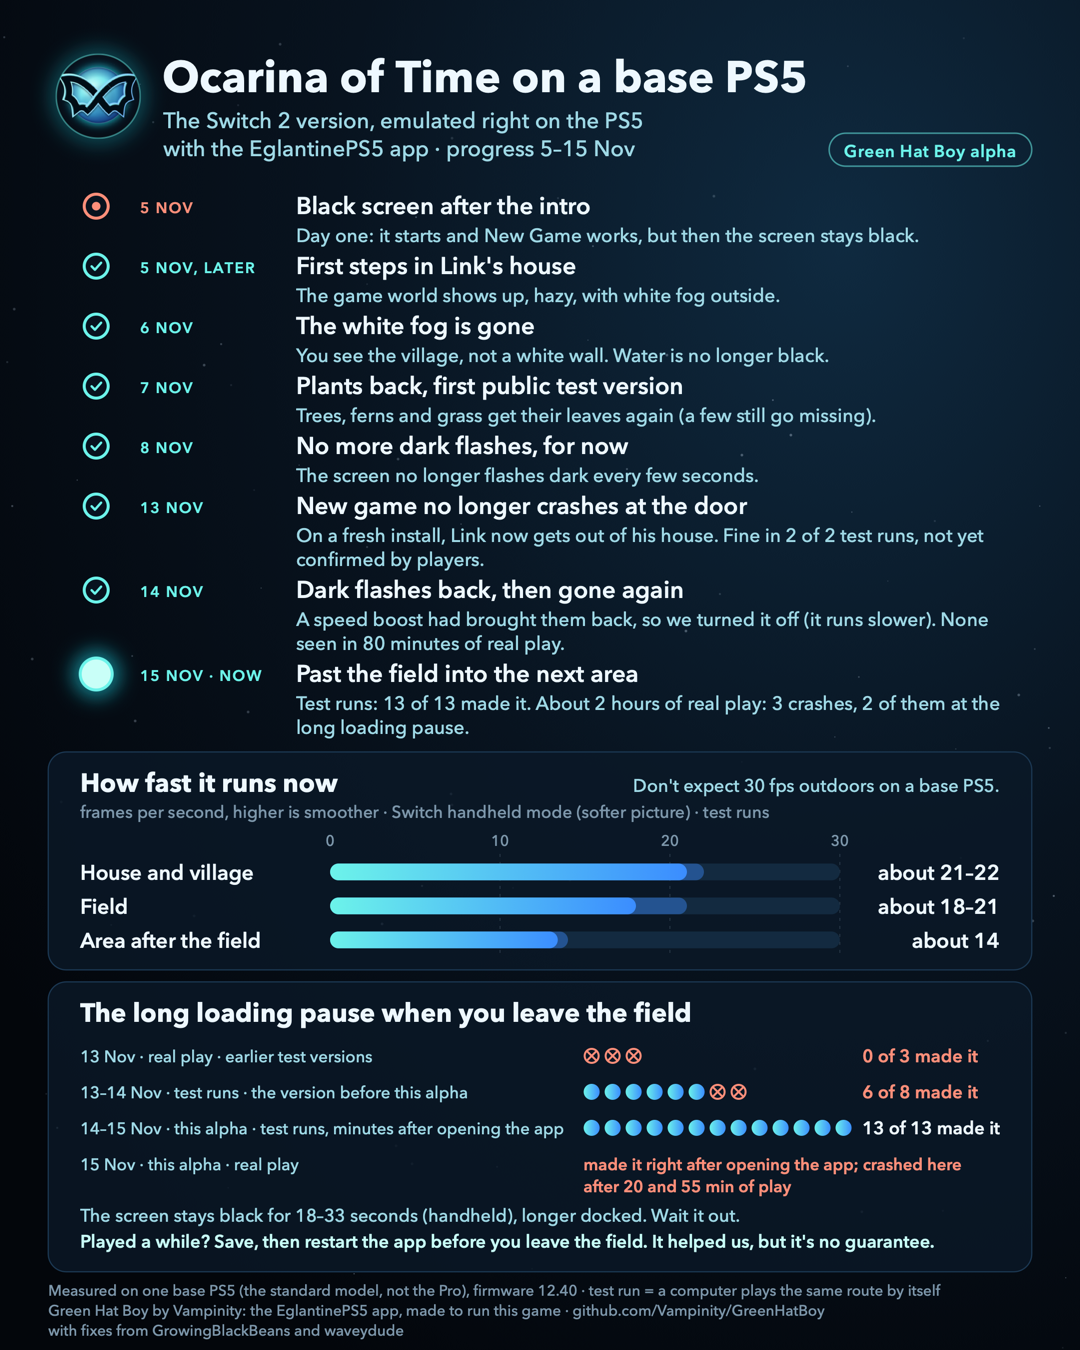
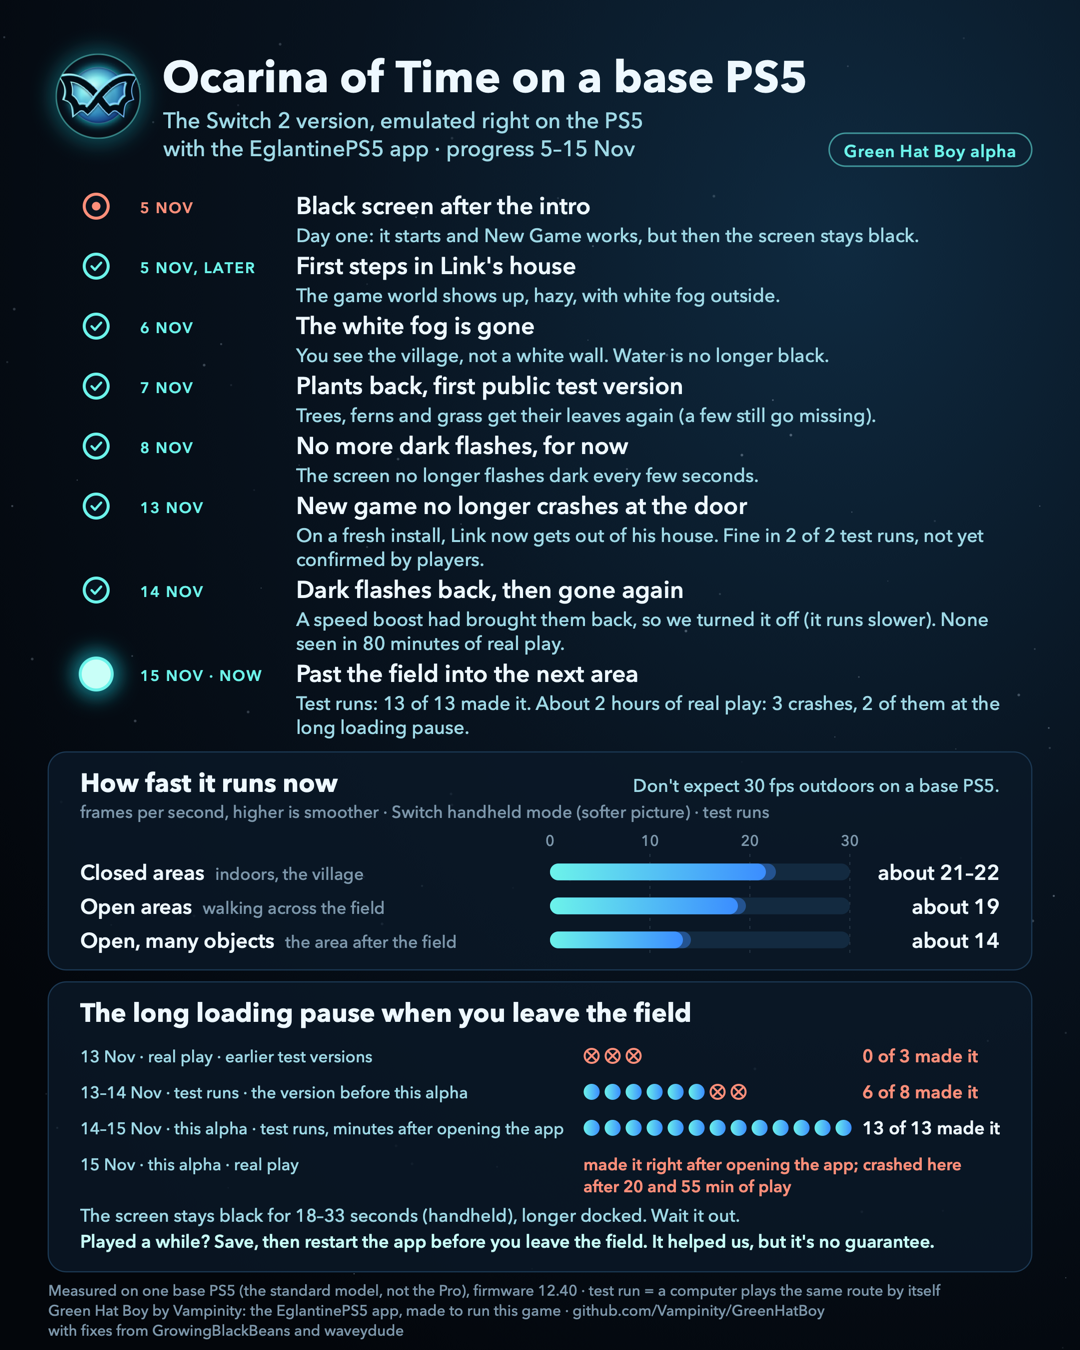
Front page: speeds by kind of place
The speed figures now name the kind of place instead of only the place: closed areas
(indoors, the village) about 21 to 22 fps, open areas (walking across the field) about 19,
open areas with many objects (the area after the field) about 14. Each label keeps the place
it was measured in. One sentence under "How fast it runs" says what the three kinds mean.

The progress picture uses the same labels, and its field value is now about 19, the
recount of 16 November (it still said 18 to 21). Numbers are unchanged otherwise.

Changed region(s): [[0.0611, 0.6222, 0.7333, 0.7156], [0.825, 0.6533, 0.9167, 0.6844], [0.7639, 0.6222, 0.7944, 0.6533]]

diff --git a/README.md b/README.md
@@ -36,7 +36,7 @@ The older test build T180 in Releases is replaced by this alpha. It used frame a
 ## Progress so far
 
 <p align="center">
-  <img src="docs/img/progress.png" width="760" alt="Progress on a base PS5, 5 to 15 November. 5 November: black screen after the intro. Later that day: first steps in Link's house. 6 November: the white fog is gone. 7 November: plants back, first public test version. 8 November: no more dark flashes, for now. 13 November: a new game no longer crashes at the door, in 2 of 2 test runs. 14 November: dark flashes back, then gone again; a speed boost had brought them back, so it is off and the game runs slower. 15 November: past the field into the next area; 13 of 13 test runs made it, and about 2 hours of real play had 3 crashes, 2 of them at the long loading pause. Speed now, in frames per second: house and village about 21 to 22, field about 18 to 21, area after the field about 14. Don't expect 30 outdoors on a base PS5. The long loading pause when you leave the field: the screen stays black for 18 to 33 seconds in handheld mode, longer docked. Played a while? Save, then restart the app before you leave the field.">
+  <img src="docs/img/progress.png" width="760" alt="Progress on a base PS5, 5 to 15 November. 5 November: black screen after the intro. Later that day: first steps in Link's house. 6 November: the white fog is gone. 7 November: plants back, first public test version. 8 November: no more dark flashes, for now. 13 November: a new game no longer crashes at the door, in 2 of 2 test runs. 14 November: dark flashes back, then gone again; a speed boost had brought them back, so it is off and the game runs slower. 15 November: past the field into the next area; 13 of 13 test runs made it, and about 2 hours of real play had 3 crashes, 2 of them at the long loading pause. Speed now, in frames per second: closed areas (indoors, the village) about 21 to 22, open areas (walking across the field) about 19, open areas with many objects (the area after the field) about 14. Don't expect 30 outdoors on a base PS5. The long loading pause when you leave the field: the screen stays black for 18 to 33 seconds in handheld mode, longer docked. Played a while? Save, then restart the app before you leave the field.">
 </p>
 
 The picture was made when 13 of the scripted starts through the long loading pause had run. It is 15 of 15 now, with about 18 to 34 seconds of black screen at that pause.
@@ -56,20 +56,20 @@ We would rather tell you now than have you find out on your own.
 - **The opening stutters the first time you watch it**, and the sound can drop out for a moment. From the second start it plays nearly smooth.
 - **Short stops the first time you see a place**, about a second each. Walk the same way again and they are gone.
 - **Now and then a wrong picture shows for a split second**, under a second in our test recordings.
-- **It is slow outdoors.** About 21 to 22 fps in the house and the village, about 19 on the walk across the field and about 14 in the area after the field. Below 20 fps the game itself also runs a bit slower. Don't expect 30 outdoors on a base PS5; see [How fast it runs](#how-fast-it-runs).
+- **It is slow outdoors.** About 21 to 22 fps in closed areas (indoors and the village), about 19 in open areas (walking across the field) and about 14 in open areas with many objects (the area after the field). Below 20 fps the game itself also runs a bit slower. Don't expect 30 outdoors on a base PS5; see [How fast it runs](#how-fast-it-runs).
 - **Use handheld.** Docked gets through the long loading pause but then crawls for half a minute or more.
 
 If it keeps crashing at the same spot, tell us with the crash form (see [below](#where-to-talk-and-how-to-report-a-problem)).
 
 ## How fast it runs
 
-**It depends on how much is on screen.** Wide open areas with many trees, water and other objects run slower.
+**It depends on how much is on screen.** Wide open areas with many trees, water and other objects run slower. In the chart, closed areas are indoors or walled in by trees, so you can't see far; open areas let you see far; many objects means a lot on screen at once.
 
 <p align="center">
   <picture>
     <source media="(prefers-color-scheme: dark)" srcset="docs/img/speed-by-place-dark.svg">
     <source media="(prefers-color-scheme: light)" srcset="docs/img/speed-by-place.svg">
-    <img src="docs/img/speed-by-place.svg" width="760" alt="Frames per second by place on a base PS5, firmware 12.40, Handheld at 1x, frame ahead off, builds T185 and T186, 14 and 15 November, slowest to fastest start: the village, standing half a minute to a minute after arriving, 21.6 to 22.6 (4 starts); the field, walking, 18.8 to 19.6 (7 starts); the area after the field 13.3 to 14.1 (7 starts).">
+    <img src="docs/img/speed-by-place.svg" width="760" alt="Frames per second by place on a base PS5, firmware 12.40, Handheld at 1x, frame ahead off, builds T185 and T186, 14 and 15 November, slowest to fastest start: closed areas (the village, standing half a minute to a minute after arriving) 21.6 to 22.6 (4 starts); open areas (walking across the field) 18.8 to 19.6 (7 starts); open areas with many objects (the area after the field) 13.3 to 14.1 (7 starts).">
   </picture>
 </p>
 
